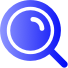
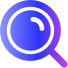
更换icon

Changed region(s): [[0.6471, 0.0588, 1.0, 1.0], [0.6471, 0.2353, 0.7647, 0.6471]]

diff --git a/lib/play/play_view.dart b/lib/play/play_view.dart
@@ -39,6 +39,7 @@ class _PlayViewState extends State<PlayView> with TickerProviderStateMixin {
       builder: (controller) {
         String url = controller.state.picUrl ?? "";
         String name = controller.state.name ?? "";
+        double iconSize = 22.dp;
         return Container(
           padding: const EdgeInsets.symmetric(vertical: 10, horizontal: 15),
           decoration: BoxDecoration(color: Colors.white,
@@ -111,23 +112,62 @@ class _PlayViewState extends State<PlayView> with TickerProviderStateMixin {
               ),
               _progressWidget(),
               SizedBox(
-                height: 10.dp,
+                height: 20.dp,
               ),
               Row(
-                mainAxisAlignment: MainAxisAlignment.center,
+                mainAxisAlignment: MainAxisAlignment.spaceBetween,
                 crossAxisAlignment: CrossAxisAlignment.center,
                 children: [
-                  IconButton(
-                      icon: const Icon(Icons.skip_previous_rounded),
-                      onPressed: () => controller.previous),
-                  IconButton(
-                      icon: controller.state.playerState == PlayerState.PLAYING
-                          ? const Icon(Icons.pause_circle_outline_rounded)
-                          : const Icon(Icons.play_arrow_rounded),
-                      onPressed: controller.play),
-                  IconButton(
-                      icon: const Icon(Icons.skip_next_rounded),
-                      onPressed: controller.next),
+                  GestureDetector(
+                    onTap: () => controller.previous,
+                    child: Container(
+                        child: Icon(
+                          Icons.skip_previous_rounded,
+                          size: iconSize,
+                        ),
+                    ),
+                  ),
+                  GestureDetector(
+                    onTap: () => controller.previous,
+                    child: Container(
+                      child: Icon(
+                        Icons.skip_previous_rounded,
+                        size: iconSize,
+                      ),
+                    ),
+                  ),
+                  GestureDetector(
+                    onTap: controller.play,
+                    child: Container(
+                      child: controller.state.playerState == PlayerState.PLAYING
+                          ? Icon(
+                        Icons.pause_circle_outline_rounded,
+                        size: iconSize,
+                      )
+                          : Icon(
+                        Icons.play_arrow_rounded,
+                        size: iconSize,
+                      ),
+                    ),
+                  ),
+                  GestureDetector(
+                    onTap: () => controller.next,
+                    child: Container(
+                      child: Icon(
+                        Icons.skip_next_rounded,
+                        size: iconSize,
+                      ),
+                    ),
+                  ),
+                  // GestureDetector(
+                  //   onTap: () => controller.next,
+                  //   child: Container(
+                  //     child: Icon(
+                  //       Icons.,
+                  //       size: iconSize,
+                  //     ),
+                  //   ),
+                  // ),
                 ],
               ),
               _lyricContainerWidget()

diff --git a/lib/play/play_controller.dart b/lib/play/play_controller.dart
@@ -42,7 +42,7 @@ class PlayController extends GetxController {
   initSongListItem(SongListItem? item, AudioSource source) async {
     if (item == null) return;
     state.source = source;
-    print(source);
+    // print(source);
     String? id = item.id;
     if (state.playId == id) return;
 
@@ -158,7 +158,7 @@ class PlayController extends GetxController {
       return;
     }
     print('state.playId = ${state.playId}');
-    // print(state.source);
+    print(state.sourceStr);
     print('state.playId = ${audioPlayer.playerId}');
     if (state.playId == null) return;
     String songId = state.playId!;
@@ -173,7 +173,7 @@ class PlayController extends GetxController {
     };
     dio.options.headers = header;
     final response = await dio.get(Api.play, queryParameters: param);
-    // print('response = $response');
+    print('response = $response');
     SongDetail detail = SongDetail.fromJson(jsonDecode(response.toString()));
 
     String url = detail.url ?? "";
